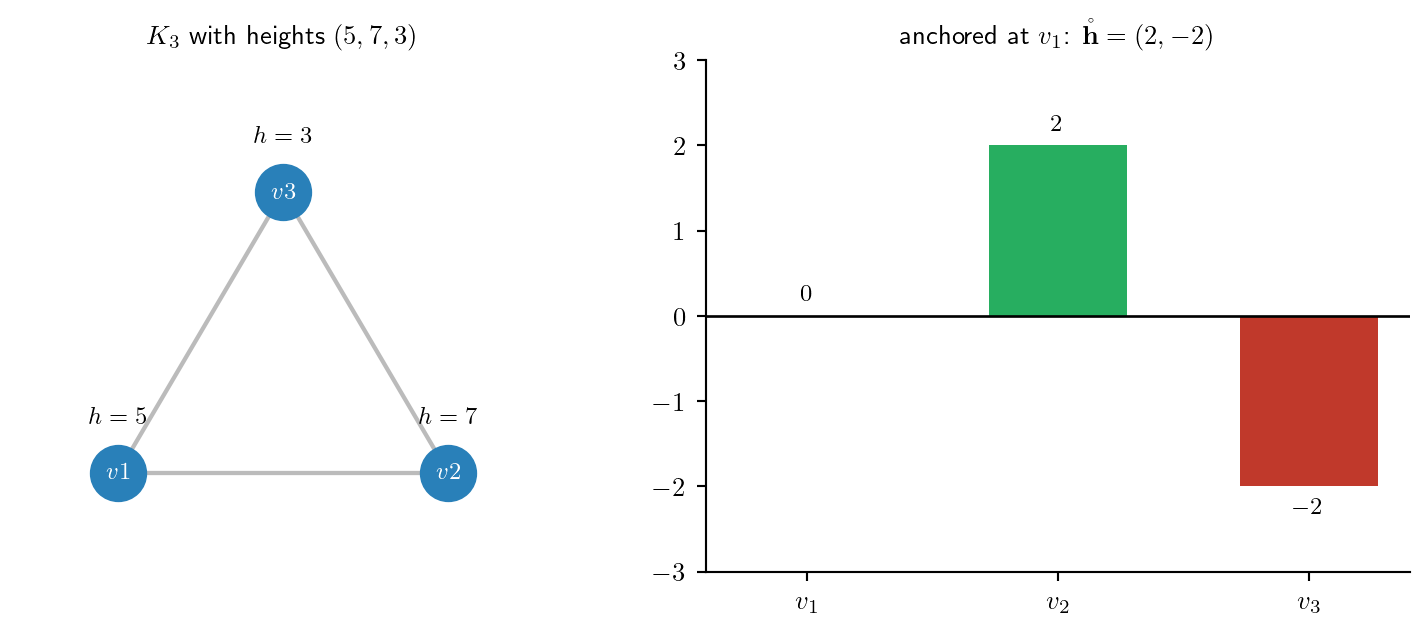
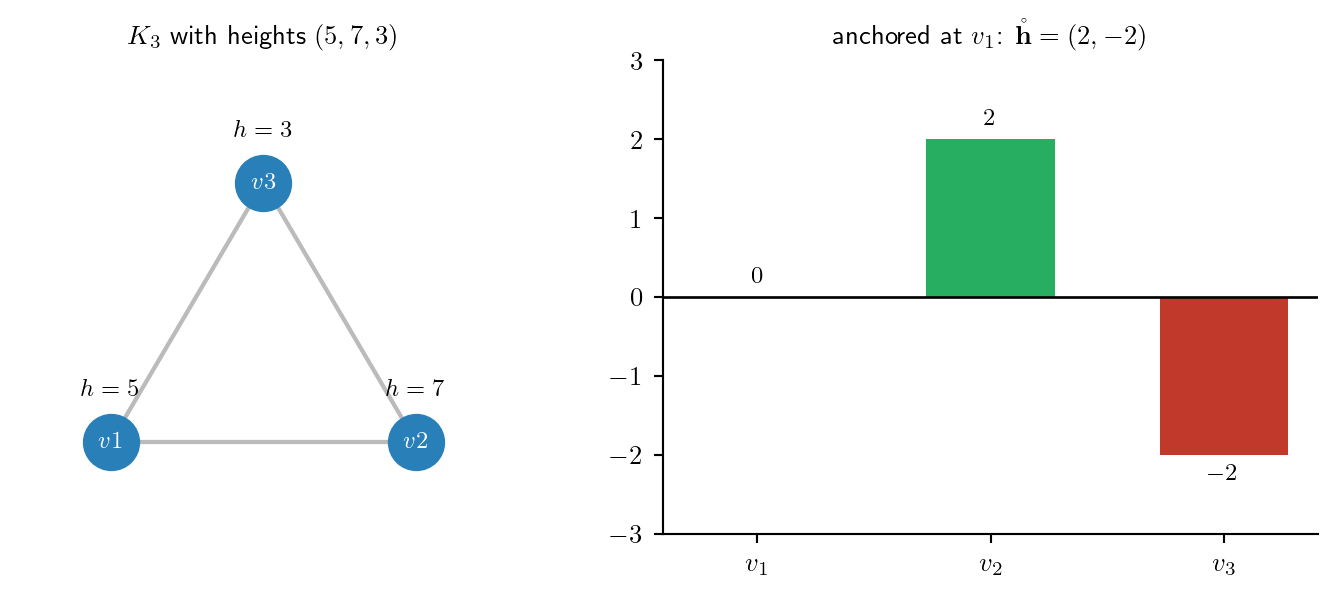
post(add): petite/K3 — 박스 중심(다이아몬드) 전용 큰 그림 + 전 그림 width<8 정책 준수
다이아몬드 6개(=u-h̊(s)≈-s)만 모은 그림으로 -C_0 육각형 시각화. setup/oneblock/frames_unified/chamber_U figsize width 8→<8 축소.

diff --git a/docs/Posts/260605_c4e5ad.html b/docs/Posts/260605_c4e5ad.html
@@ -251,11 +251,11 @@ window.Quarto = {
 <p><strong>(1) 높이차 <span class="math inline">\(\mathring{\mathbf{h}}\)</span></strong> — <span class="math inline">\(v_1\)</span>을 기준으로 뺀 anchored 높이차: <span class="math display">\[\mathring{\mathbf{h}}(s) = \bigl(h(v_2) - h(v_1),\ h(v_3) - h(v_1)\bigr) = (7-5,\ 3-5) = (2, -2).\]</span></p>
 <p><strong>(2) 현재 노드 <span class="math inline">\(X\)</span></strong> — walker가 지금 있는 노드 (예: <span class="math inline">\(v_1\)</span>).</p>
 <p>→ 우리 예제의 상태는 <span class="math inline">\(s = \bigl((2,-2),\ v_1\bigr)\)</span>이다. (<span class="math inline">\(\mathring{\mathbf{h}}\)</span>가 절대높이 <span class="math inline">\(5,7,3\)</span>을 안 기억해도 되는 이유: 눈은 모든 노드에 똑같이 와 닿는 게 아니라 <strong>높이차</strong>만 동역학에 들어오기 때문. 높이를 통째로 <span class="math inline">\(+10\)</span> 해도 같은 상태.)</p>
-<div id="b1eec4f3" class="cell" data-execution_count="1">
+<div id="b3c1dcf3" class="cell" data-execution_count="1">
 <div class="cell-output cell-output-display">
 <div>
 <figure class="figure">
-<p><img src="260605_유진_HST_petite_smallset_K3_files/figure-html/cell-2-output-1.png" width="714" height="317" class="figure-img"></p>
+<p><img src="260605_유진_HST_petite_smallset_K3_files/figure-html/cell-2-output-1.png" width="669" height="298" class="figure-img"></p>
 </figure>
 </div>
 </div>
@@ -274,7 +274,7 @@ window.Quarto = {
 <p>로 정의한다. (<span class="math inline">\(K_3\)</span> 예제: <span class="math inline">\(\bar h = \tfrac{5+7+3}{3} = 5\)</span>, <span class="math inline">\(\hbar = (0, 2, -2)\)</span>, 따라서 <span class="math inline">\(M(s) = 2\)</span>.) small set은 이 <span class="math inline">\(M\)</span>의 sublevel:</p>
 <p><span class="math display">\[C_0 = \{\, M \leq M_0 \,\} \times V, \qquad \text{이 예제 } M_0 := 2.\]</span></p>
 <p>우리 <span class="math inline">\(s\)</span>는 <span class="math inline">\(M(s) = 2 = M_0\)</span>이라 <span class="math inline">\(C_0\)</span> <strong>경계</strong>(사실 꼭짓점) 위 — <span class="math inline">\(v_2\)</span>가 천장, <span class="math inline">\(v_3\)</span>가 바닥인 <strong>가장 치우친 worst case</strong>다. <span class="math inline">\(M\)</span>은 anchored 좌표 <span class="math inline">\(\mathring{\mathbf{h}}=(u_1,u_2)\)</span> (<span class="math inline">\(u_1{=}h(v_2){-}h(v_1)\)</span>, <span class="math inline">\(u_2{=}h(v_3){-}h(v_1)\)</span>)만으로도 쓸 수 있고(<span class="math inline">\(\hbar = (0,u_1,u_2)-\tfrac{u_1+u_2}{3}\mathbf{1}\)</span>), <span class="math inline">\(C_0\)</span>는 그 평면에서 <strong>육각형</strong>(<span class="math inline">\(\times V\)</span>, 꼭짓점 <span class="math inline">\(\pm(4,2),\pm(2,4),\pm(2,-2)\)</span>)으로 나타난다.</p>
-<div id="8337a946" class="cell" data-execution_count="2">
+<div id="0949e882" class="cell" data-execution_count="2">
 <div class="cell-output cell-output-display">
 <div>
 <figure class="figure">
@@ -313,11 +313,11 @@ window.Quarto = {
 </ul>
 <p>위 밀도 하한의 유도 (왜 <span class="math inline">\(\mathcal{O}\)</span> 위에서만 <span class="math inline">\(f \geq \tfrac12\)</span>인가): 증분 밀도 <span class="math inline">\(f\)</span>는 <span class="math inline">\(b^{\sharp}_1\)</span>을 적분해 없앤 것인데, 모든 <span class="math inline">\(|b^{\sharp}_i - b^{\sharp}_1| &lt; b/4\)</span>일 때 적분 구간이 길이 <span class="math inline">\(\geq b/2\)</span>를 품어 <span class="math inline">\(f \geq b^{1-n}/2\)</span>로 떨어진다 (<span class="math inline">\(b{=}1, n{=}3\)</span>이라 <span class="math inline">\(\tfrac12\)</span>). 그 조건이 정확히 <span class="math inline">\(\mathring{\mathbf{b}}^{\sharp} \in \mathcal{O}\)</span>.</p>
 <p><strong>주의 — <span class="math inline">\(\mathcal{O}\)</span>는 “한 블록으로 갈 수 있는 전부”가 아니다.</strong> 증분 <span class="math inline">\(\mathring{\mathbf{b}}^{\sharp} = (b^{\sharp}_2 - b^{\sharp}_1,\ b^{\sharp}_3 - b^{\sharp}_1)\)</span>은 각 <span class="math inline">\(b^{\sharp}_i \in [0,b]\)</span>라, 실제 <strong>도달 영역</strong>은 박스가 아니라 <strong>육각형</strong> <span class="math display">\[\{\, \zeta : |\zeta_1| \leq b,\ |\zeta_2| \leq b,\ |\zeta_1 - \zeta_2| \leq b \,\}\]</span> 이다 (증분도 높이차 벡터라 pairwise range <span class="math inline">\(\leq b=1\)</span>). 예컨대 모서리 <span class="math inline">\((b, -b)\)</span>는 <span class="math inline">\(b^{\sharp}_1\)</span>을 공유하는 제약 때문에 도달 불가(<span class="math inline">\(|x-y|=2b &gt; b\)</span>). 박스 <span class="math inline">\(\mathcal{O}\)</span>(한 좌표 <span class="math inline">\(\pm b/4\)</span>)는 그 육각형 <strong>안쪽의 밀도 <span class="math inline">\(\geq \tfrac12\)</span> 보장 부분</strong>일 뿐이다. 증명이 박스만 쓰는 이유: 깔끔한 밀도 하한 <span class="math inline">\(b^{1-n}/2\)</span>가 거기서만 나오기 때문 (육각형 안·박스 밖은 밀도가 양수지만 그 하한은 안 나옴). 아래 그림은 (A) <strong>큰 <span class="math inline">\(C_0\)</span> 안에 한 블록 도달역(작은 육각형)이 작게 들어있는 모습</strong> — 둘 다 육각형이지만 정의가 다르다(<span class="math inline">\(C_0\)</span>는 centered <span class="math inline">\(M\leq M_0{=}2\)</span>·원점 중심, 도달역은 pairwise range <span class="math inline">\(\leq b{=}1\)</span>·<span class="math inline">\(s{=}(2,-2)\)</span> 중심) — 과 (B) 그 도달역 줌인(도달 육각형 <span class="math inline">\(\supset\)</span> 밀도박스 <span class="math inline">\(\mathcal{O}\)</span>)을 보여준다.</p>
-<div id="20932343" class="cell" data-execution_count="3">
+<div id="e77365fb" class="cell" data-execution_count="3">
 <div class="cell-output cell-output-display">
 <div>
 <figure class="figure">
-<p><img src="260605_유진_HST_petite_smallset_K3_files/figure-html/cell-4-output-1.png" width="876" height="430" class="figure-img"></p>
+<p><img src="260605_유진_HST_petite_smallset_K3_files/figure-html/cell-4-output-1.png" width="723" height="347" class="figure-img"></p>
 </figure>
 </div>
 </div>
@@ -328,7 +328,7 @@ window.Quarto = {
 <p><strong>정의 (도달역).</strong> 한 블록 증분이 밀도바닥 박스 <span class="math inline">\(\mathcal{O}\)</span> 안에 있을 때, <span class="math inline">\(L\)</span>블록을 누적한 총변위가 떨어질 수 있는 곳이 곧 Minkowski 합 <span class="math inline">\(L\cdot\mathcal{O}\)</span>다. 이 집합을 <strong>도달역</strong>(reachable region)이라 부른다 — “<span class="math inline">\(L\)</span>번 걸어서 닿을 수 있는 모든 점”. 출발점 <span class="math inline">\(s\)</span>에서 시작하면 도달역은 <span class="math inline">\(s + L\cdot\mathcal{O}\)</span>로 평행이동한다.</p>
 </blockquote>
 <p><span class="math inline">\(M_0 = 2\)</span>, <span class="math inline">\(b = 1\)</span>이라 <span class="math inline">\(L = \lceil 16\cdot 2 + 3 \rceil = 35\)</span>. 그러면 <span class="math inline">\(L\cdot\mathcal{O} = (-\tfrac{L}{4}, \tfrac{L}{4})^2 = (-8.75, 8.75)^2\)</span> — <strong>출발 <span class="math inline">\(\mathring{\mathbf{h}}(s)=(2,-2)\)</span>를 원점 근처로 끌어내릴 만큼 넉넉</strong>하다. (falls가 채울 변위 <span class="math inline">\(\zeta = u - \mathring{\mathbf{h}}(s) - r \approx (0,0)-(2,-2) = (-2,2)\)</span>가 <span class="math inline">\(\pm 8.75\)</span> 안에 푹 들어옴. 여기 <span class="math inline">\(r\)</span>은 <strong>non-fall 잔차</strong>로 ③에서 정의·범위를 못박는다.)</p>
-<div id="e70dbf03" class="cell" data-execution_count="4">
+<div id="964376ea" class="cell" data-execution_count="4">
 <div class="cell-output cell-output-display">
 <div>
 <figure class="figure">
@@ -618,7 +618,7 @@ Important
 </div>
 </div>
 <p><span class="math inline">\(30\)</span>점 모두 <span class="math inline">\(\|\zeta\|_\infty\leq8.38&lt;8.75\)</span> — “<span class="math inline">\(-\mathring{\mathbf{h}}(s)\)</span> (출발, 최대 <span class="math inline">\(2M_0{=}4\)</span>)”와 “<span class="math inline">\(-r\)</span> (잔차, 최대 <span class="math inline">\(4.375\)</span>)” 두 손잡이가 점만 한 <span class="math inline">\(U\)</span>를 <span class="math inline">\(\pm8.6\)</span>짜리 큰 집합 <span class="math inline">\(K_U\)</span>로 부풀려도 도달역 안에 여유 두고 든다.</p>
-<div id="2927e561" class="cell" data-execution_count="5">
+<div id="aaf132a8" class="cell" data-execution_count="5">
 <div class="cell-output cell-output-display">
 <div>
 <figure class="figure">
@@ -627,16 +627,27 @@ Important
 </div>
 </div>
 </div>
-<p><strong>6개 패널 = 6개 출발 <span class="math inline">\(s\)</span></strong>(<span class="math inline">\(C_0\)</span>의 꼭짓점). 각 패널에서 색 박스는 그 출발의 표적 모임 — 중심 <span class="math inline">\(u-\mathring{\mathbf{h}}(s)\approx-s\)</span>, 한 변 <span class="math inline">\(\pm Lb/8=\pm4.375\)</span>인 <strong>잔차 박스</strong>(점 5개 = 중심+네 모서리), 그리고 연한 보라 외곽선이 <strong>전체 <span class="math inline">\(K_U\)</span></strong>(6패널 박스의 합집합) 참조용. 출발마다 박스가 <span class="math inline">\(-s\)</span> 위치로 옮겨다니며 <span class="math inline">\(K_U\)</span>를 채우는 게 한눈에 보인다. <span class="math inline">\(6\times5=30\)</span>개 표본 모두 <span class="math inline">\(\|\zeta\|_\infty\leq8.38&lt;8.75\)</span>라 도달역(초록 점선) 안에 <strong>여유 <span class="math inline">\(\sim0.37\)</span></strong> 두고 든다. 아래 접이식에 삼각부등식 증명을 둔다.</p>
+<p><strong>6개 패널 = 6개 출발 <span class="math inline">\(s\)</span></strong>(<span class="math inline">\(C_0\)</span>의 꼭짓점). 각 패널에서 색 박스는 그 출발의 표적 모임 — 중심 <span class="math inline">\(u-\mathring{\mathbf{h}}(s)\approx-s\)</span>, 한 변 <span class="math inline">\(\pm Lb/8=\pm4.375\)</span>인 <strong>잔차 박스</strong>(점 5개 = 중심+네 모서리), 그리고 연한 보라 외곽선이 <strong>전체 <span class="math inline">\(K_U\)</span></strong>(6패널 박스의 합집합) 참조용. 출발마다 박스가 <span class="math inline">\(-s\)</span> 위치로 옮겨다니며 <span class="math inline">\(K_U\)</span>를 채우는 게 한눈에 보인다. <span class="math inline">\(6\times5=30\)</span>개 표본 모두 <span class="math inline">\(\|\zeta\|_\infty\leq8.38&lt;8.75\)</span>라 도달역(초록 점선) 안에 <strong>여유 <span class="math inline">\(\sim0.37\)</span></strong> 두고 든다.</p>
+<p>각 패널의 <strong>다이아몬드는 그 박스의 중심 <span class="math inline">\(u-\mathring{\mathbf{h}}(s)\approx-s\)</span></strong>다. 이 6개 중심만 한 그림에 모으면 — 출발 <span class="math inline">\(s\)</span>가 <span class="math inline">\(C_0\)</span> 꼭짓점이라 <span class="math inline">\(-s\)</span>도 <span class="math inline">\(C_0\)</span> 꼭짓점이므로 — <strong>다이아몬드 6개가 그대로 <span class="math inline">\(C_0\)</span> 육각형을 이룬다</strong> (잔차 박스를 떼고 “출발 손잡이만” 본 그림):</p>
+<div id="6e16893c" class="cell" data-execution_count="6">
+<div class="cell-output cell-output-display">
+<div>
+<figure class="figure">
+<p><img src="260605_유진_HST_petite_smallset_K3_files/figure-html/cell-7-output-1.png" width="589" height="579" class="figure-img"></p>
+</figure>
+</div>
+</div>
+</div>
+<p>다이아몬드 6개(<span class="math inline">\(=\)</span>출발 손잡이만)가 <span class="math inline">\(-C_0\)</span> 육각형 꼭짓점에 놓이고, 여기에 각 다이아몬드마다 <span class="math inline">\(\pm4.375\)</span> 잔차 박스를 씌우면 위 3×2의 전체 <span class="math inline">\(K_U\)</span>가 된다. 아래 접이식에 삼각부등식 증명을 둔다.</p>
 <blockquote class="blockquote">
 <p><strong>좌표계 주의 — 이 그림은 §2②의 도달역 그림과 축이 다르다.</strong> ②(LO_reach)는 <strong>위치 공간</strong>(축 <span class="math inline">\(h(v_i){-}h(v_1)\)</span>, 도달역이 출발 <span class="math inline">\(s\)</span> 중심 <span class="math inline">\(s+L\cdot\mathcal{O}\)</span>)이고, 이 그림은 <strong>변위 공간</strong> <span class="math inline">\(\zeta\)</span>(원점 중심 <span class="math inline">\(\operatorname{int}(L\cdot\mathcal{O})\)</span>)다. 둘은 <span class="math inline">\(\zeta = (\text{도착}) - (\text{출발 } s)\)</span>로 연결돼 — <strong>②의 화살표 하나(변위 <span class="math inline">\(\approx(-2,2)\)</span>)가 여기선 점 하나(A)</strong>다. “위치 = $s + $ 변위”라, 변위 그림은 위치 그림을 <span class="math inline">\(s\)</span>만큼 원점으로 끌어온 셈.</p>
 </blockquote>
 <p><strong>두 좌표계를 한 그림에 — 같은 변위, <span class="math inline">\(-s\)</span> 평행이동.</strong> 아래 통일 비교에서 (A) 위치 공간의 <strong>화살표</strong> <span class="math inline">\(s\to U\)</span>가 (B) 변위 공간의 <strong>점 A</strong>로 그대로 옮겨간다. (B)는 (A)를 “출발 <span class="math inline">\(s\)</span>를 원점으로” 끌어온 것 — 도달역 박스도 <span class="math inline">\(s+L\cdot\mathcal{O}\)</span>(A)에서 <span class="math inline">\(L\cdot\mathcal{O}\)</span>(B)로 같이 평행이동한다.</p>
-<div id="773e1076" class="cell" data-execution_count="6">
+<div id="4199cec2" class="cell" data-execution_count="7">
 <div class="cell-output cell-output-display">
 <div>
 <figure class="figure">
-<p><img src="260605_유진_HST_petite_smallset_K3_files/figure-html/cell-7-output-1.png" width="915" height="501" class="figure-img"></p>
+<p><img src="260605_유진_HST_petite_smallset_K3_files/figure-html/cell-8-output-1.png" width="723" height="398" class="figure-img"></p>
 </figure>
 </div>
 </div>
@@ -659,11 +670,11 @@ Important
 </div>
 </div>
 </div>
-<div id="b73b248b" class="cell" data-execution_count="7">
+<div id="ade50c61" class="cell" data-execution_count="8">
 <div class="cell-output cell-output-display">
 <div>
 <figure class="figure">
-<p><img src="260605_유진_HST_petite_smallset_K3_files/figure-html/cell-8-output-1.png" width="800" height="390" class="figure-img"></p>
+<p><img src="260605_유진_HST_petite_smallset_K3_files/figure-html/cell-9-output-1.png" width="723" height="351" class="figure-img"></p>
 </figure>
 </div>
 </div>
